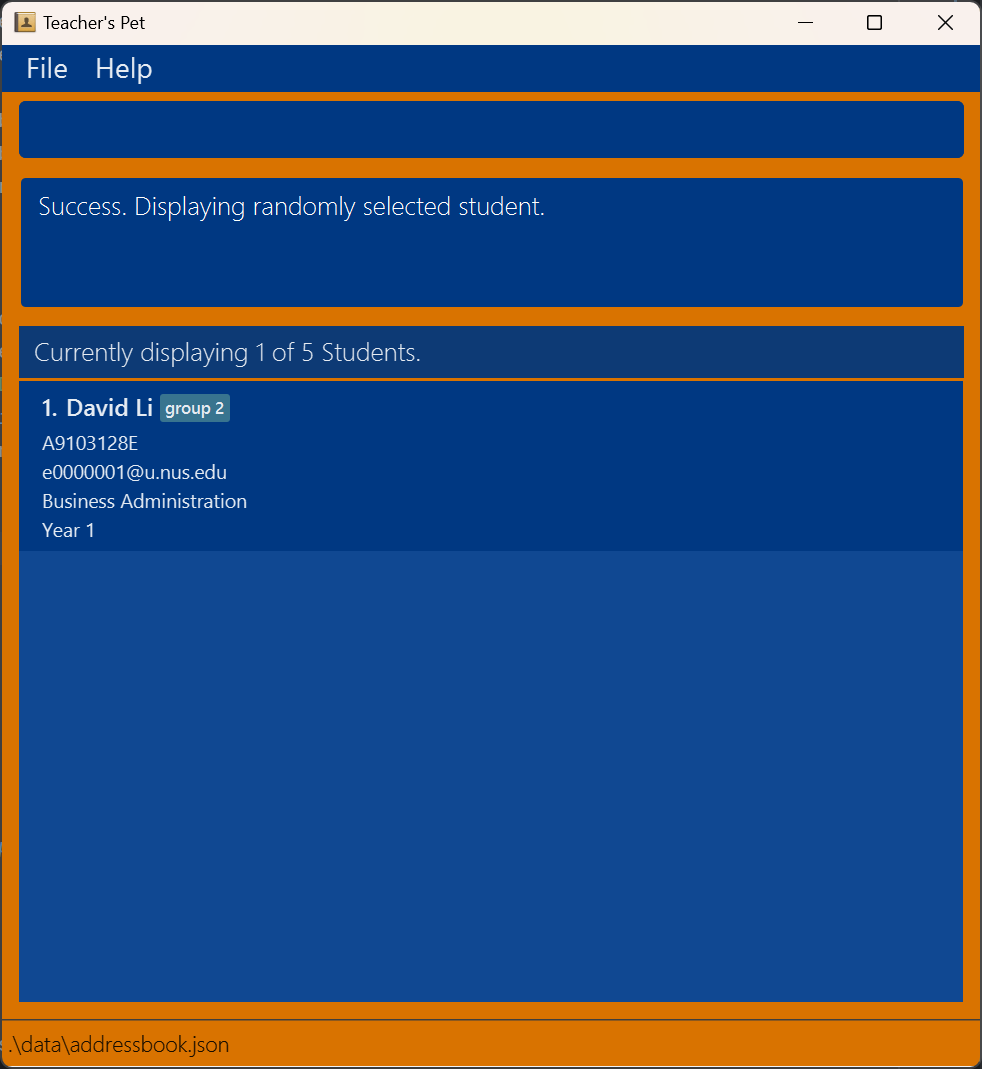
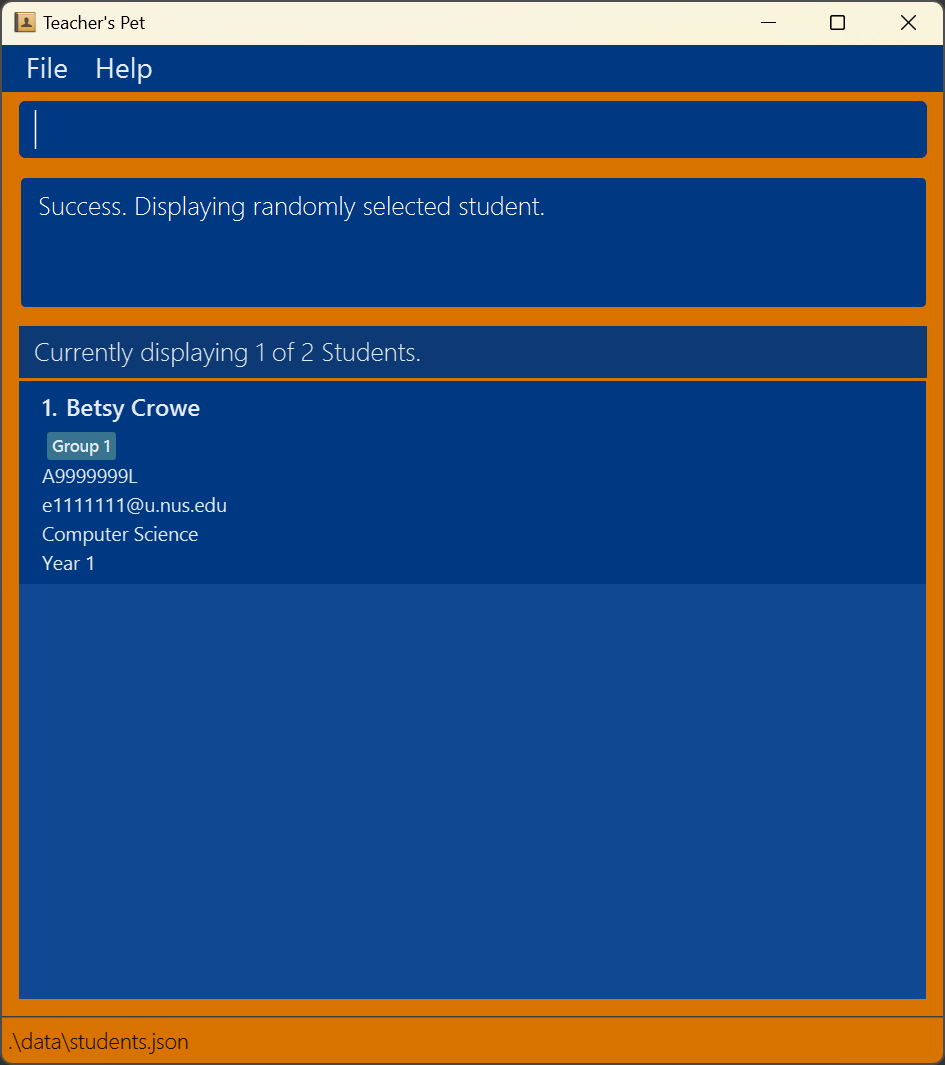
Update UG
- Change Introduction section
- Update save file name to reflect actual changes
- Update content of Add and random commands to fit new style
- Update Command summary

diff --git a/docs/UserGuide.md b/docs/UserGuide.md
@@ -3,7 +3,14 @@ layout: page
 title: User Guide
 ---
 
-Teacher's Pet (TP) is a **desktop app for managing students, tailored for the National University of Singapore (NUS) and optimized for use via a Command Line Interface** (CLI) while still having the benefits of a Graphical User Interface (GUI). If you can type fast, TP enables you to manage your students faster than traditional GUI apps.
+Teacher's Pet is a **desktop app for managing students, tailored for Teaching Assistants (TA) in the National University of Singapore (NUS). Teacher's Pet offers a lightweight, efficient solution optimized for small (<30 students) classes and works completely offline, promising performance even with an unstable network connection. 
+
+To get started with Teacher's Pet, kindly refer to our [Quick Start](#quick-start) guide. 
+
+If you simply need to find a command, you can refer to our [Command Summary](#command-summary) for the full list of commands and how to use them. 
+
+Have a question? You might find the answer in our [FAQ](#faq) section.
+
 
 * Table of Contents
 {:toc}
@@ -12,31 +19,52 @@ Teacher's Pet (TP) is a **desktop app for managing students, tailored for the Na
 
 ## Quick start
 
-1. Ensure you have Java `17` or above installed in your Computer. You may download Java 17 through [this link](https://www.oracle.com/sg/java/technologies/downloads/)
+You can refer to the [FAQ](#frequently-asked-questions-quick-start) section below for more information.
 
-2. Download the latest `.jar` file from [here](https://github.com/AY2425S1-CS2103T-W10-1/tp/releases/tag/v1.3).
+1. Ensure you have Java `17` or above installed in your Computer. You may download Java 17 through [this link](https://www.oracle.com/java/technologies/javase/jdk17-archive-downloads.html). 
 
-3. Copy the file to the folder you want to use as the _home folder_ for your app.
+2. Download the latest `teacherspet.jar` file from [here](https://github.com/AY2425S1-CS2103T-W10-1/tp/releases/tag/v1.3). The downloaded file should be  found in your  `Downloads` folder.
 
-4. Open a command terminal, `cd` into the folder you put the jar file in, and use the `java -jar teacherspet.jar` command to run the application.<br>
-   A GUI similar to the below should appear in a few seconds. Note how the app contains some sample data.<br>
+3. Copy the file, make an empty folder in your `Documents` folder and paste `teacherspet.jar` in the new folder.
+
+4. Open a command terminal, enter `cd Downloads/NAME_OF_YOUR_FOLDER`. Then, enter `java -jar teacherspet.jar` to run the application.<br>
+   A window similar to the one below should appear in a few seconds. Note how the app contains some sample data.<br>
    ![Ui](images/Ui.png)
 
 5. Type the command in the command box and press Enter to execute it. e.g. typing **`help`** and pressing Enter will open the help window.<br>
    Some example commands you can try:
 
-   * `list` : Lists all contacts.
+   * `list` : Lists all students.
 
-   * `add n/John Doe id/A1234567B nid/E1234567 m/Math y/2 g/group 1` : Adds a contact named `John Doe` to the Address Book.
+   * `add n/John Doe id/A1234567B nid/E1234567 m/Math y/2 g/group 1` : Adds a student named `John Doe` to the app.
 
-   * `delete 3` : Deletes the 3rd contact shown in the current list.
+   * `delete 3` : Deletes the 3rd student shown in the current list.
 
-   * `clear` : Deletes all contacts.
+   * `clear` : Deletes all students.
 
    * `exit` : Exits the app.
 
-6. Refer to the [Features](#features) below for details of each command.
+6. Refer to [Commands](#commands) below for more details of each command. Alternatively, refer to [Command Summary](#command-summary) for a cheatsheet of commands and how to use them.
 
+<div markdown="span" class="alert alert-primary">:bulb: **Tip:**
+ If you want the app to be in another folder, you can copy the app to any folder you want. Just make sure to copy all files in the original folder (Not just the `teacherspet.jar` file).
+</div>
+
+### Frequently Asked Questions (Quick Start)
+
+Back to [Quick Start](#quick-start)
+
+**Q:** How do I check what version of Java I have on my device? </br>
+**A:** You can refer to this [link](https://www.java.com/en/download/help/version_manual.html) for more information.
+
+**Q:** I clicked the link to install Java 17, now which file should I download? </br>
+**A:** You want to look for the file with `Installer` in its name for the Operating System of your device (eg. `macOS x64 DMG Installer` if you use an Apple device). After downloading the file, simply run it to install Java 17.
+
+**Q:** How do I open a command terminal? </br>
+**A:** If you are using a Windows device, search for `Windows PowerShell` or `Command Prompt`. If you are using a Mac/Apple device, search for `Terminal`.
+
+**Q:** After running the app, some messages appear on my terminal, should I be concerned? </br>
+**A:** If a window similar to the one in the image above appears, then the app is working well and you can safely ignore any messages on the terminal.
 --------------------------------------------------------------------------------------------------------------------
 
 ## Commands
@@ -45,7 +73,7 @@ Teacher's Pet (TP) is a **desktop app for managing students, tailored for the Na
 
 **:information_source: Notes about the command format:**<br>
 
-* Words in `UPPER_CASE` are the parameters to be supplied by the user.<br>
+* Words in `UPPER_CASE` are the parameters to be supplied by you.<br>
   e.g. in `add n/NAME`, `NAME` is a parameter which can be used as `add n/John Doe`.
 
 * Items in square brackets are optional.<br>
@@ -53,9 +81,6 @@ Teacher's Pet (TP) is a **desktop app for managing students, tailored for the Na
 
 * Parameters can be in any order.<br>
   e.g. if the command specifies `n/NAME id/NUS_STUDENTID`, `id/NUS_STUDENTID n/NAME` is also acceptable.
-
-* Extraneous parameters for commands that do not take in parameters (such as `help`, `list`, `exit` and `clear`) will be ignored.<br>
-  e.g. if the command specifies `help 123`, it will be interpreted as `help`.
 
 * If you are using a PDF version of this document, be careful when copying and pasting commands that span multiple lines as space characters surrounding line-breaks may be omitted when copied over to the application.
 </div>
@@ -76,15 +101,17 @@ Format: `help`
 
 You can add a student easily to Teacher's Pet!
 
-Format: `add n/NAME id/NUS_STUDENTID [nid/NUS_NETID] [m/MAJOR] [y/YEAR] [g/group GROUP_NUMBER]`
+Format: `add n/NAME id/NUS_STUDENTID [nid/NUS_NETID] [m/MAJOR] [y/YEAR] [g/GROUP_NAME]`
 
-* The NUS_STUDENTID here refers to the NUS Matriculation Number of the student (Starts with "A")
-* The NUS_NETID here refers to the id that is associated with the student's NUS outlook account ("NUS_NETID@u.nus.edu")
-* Both the NUS_STUDENTID and NUS_NETID must be unique (ie. Two students cannot have the same NUS_STUDENTID and/or NUS_NETID)
+* The `NUS_STUDENTID` here refers to the NUS Matriculation Number of the student (Starts with 'A')
+* The `NUS_NETID` here refers to the id that is associated with the student's NUS Outlook account ("NUS_NETID@u.nus.edu")
+* The `NUS_STUDENTID` must be unique (ie. Two students cannot have the same `NUS_STUDENTID`)
 
 Here are some examples for you to try!
 * `add n/John Doe id/A1234567P`
-* `add n/Betsy Crowe m/Computer Science nid/e1111111 id/A9999999L y/1 g/group 1`
+* `add n/Betsy Crowe m/Computer Science nid/e1111111 id/A9999999L y/1 g/Group 1`
+
+![add_success_ui](images/add_success_ui.png)
 
 ---
 
@@ -174,15 +201,18 @@ Examples:
 
 ### Selecting a student randomly: `random`
 
-Displays a student randomly selected from the current list of students.
+You can randomly select a student from the current list. For example, you may want to randomly select a student to answer your question.
+
+<div markdown="span" class="alert alert-primary">:bulb: **Tip:**
+The student is randomly chosen from the currently displayed list. So you can use the `show` command first before using `random` if you want to select a random student from a particular group.
+</div>
 
 Format: `random`
 
 Example:
 * `random`  
 
-
-  ![result for 'random'](images/random_example.png)
+![result for 'random'](images/random_example.png)
 
 ---
 
@@ -253,16 +283,16 @@ Furthermore, certain edits can cause Teacher's Pet to behave in unexpected ways 
 ## FAQ
 
 **Q**: Where is my data saved?<br>
-**A**: The data file for Teacher's Pet is named `addressbook.json` and is saved in `[JAR file location]/data/addressbook.json` by default. (ie, if your `teacherspet.jar` file is in `Documents` then the data file is found in `Documents/data/addressbook.json`)
+**A**: The data file for Teacher's Pet is named `students.json` and is saved in `[JAR file location]/data/students.json` by default. (ie, if your `teacherspet.jar` file is in `Documents` then the data file is found in `Documents/data/students.json`)
 
 **Q**: How do I transfer my data to another Computer?<br>
 **A**: 
 1. Install the app on the other computer 
 2. Run the app on the other computer (See [Quick start](#quick-start) above) 
-3. Find the data file on the other computer (See above) and replace the `addressbook.json` file with the `addressbook.json` file from the previous computer
+3. Find the data file on the other computer (See above) and replace the `students.json` file with the `students.json` file from the previous computer
 
 **Q**: How do I keep a copy of my data?<br>
-**A**: Find the `addressbook.json` file and copy it to your desired location/storage device
+**A**: Find the `students.json` file and copy it to your desired location/storage device
 
 **Q**: What is the maximum size of my student list?<br>
 **A**: The maximum size is 2,147,483,647 students.
@@ -282,12 +312,14 @@ Furthermore, certain edits can cause Teacher's Pet to behave in unexpected ways 
 
 Action | Format, Examples
 --------|------------------
-**Add** | `add n/NAME id/NUS_STUDENTID [nid/NUS_NETID] [m/MAJOR] [y/YEAR] [g/group GROUP_NUMBER]` <br> e.g., `add n/James Ho id/A1234567X nid/E1234567 m/Computer Science y/2 g/group 4`
-**Clear** | `clear`
-**Comment** | `comment INDEX c/COMMENT`<br> e.g., `comment 1 c/Is always late to class`
-**Delete** | `delete INDEX`<br> e.g., `delete 3`
-**Edit** | `edit INDEX [n/NAME] [id/STUDENTID] [nid/EMAIL] [m/MAJOR] [y/YEAR] [g/group GROUP_NUMBER]`<br> e.g.,`edit 1 n/James Lee m/4`
-**Find** | `find [n/ NAME_KEYWORDS] [id/ STUDENT_IDS]`<br> e.g., `find n/ James Jake`, `find id/ A1234567E A2345678B`, `find n/ Alice id/ A1234567E`
-**Show** | `show GROUP_NUMBER`
-**List** | `list`
 **Help** | `help`
+**Add** | `add n/NAME id/NUS_STUDENTID [nid/NUS_NETID] [m/MAJOR] [y/YEAR] [g/ROUP_NAME]` <br> e.g., `add n/James Ho id/A1234567X nid/E1234567 m/Computer Science y/2 g/Group 4`
+**Edit** | `edit INDEX [n/NAME] [id/STUDENTID] [nid/EMAIL] [m/MAJOR] [y/YEAR] [g/group GROUP_NUMBER]`<br> e.g.,`edit 1 n/James Lee m/4`
+**Comment** | `comment INDEX c/COMMENT`<br> e.g., `comment 1 c/Is always late to class`
+**List** | `list`
+**Show** | `show GROUP_NAME`
+**Find** | `find [n/ NAME_KEYWORDS] [id/ STUDENT_IDS]`<br> e.g., `find n/ James Jake`, `find id/ A1234567E A2345678B`, `find n/ Alice id/ A1234567E`
+**Random** | `random`
+**Delete** | `delete INDEX`<br> e.g., `delete 3`
+**Clear** | `clear`
+**Exit** | `exit`
